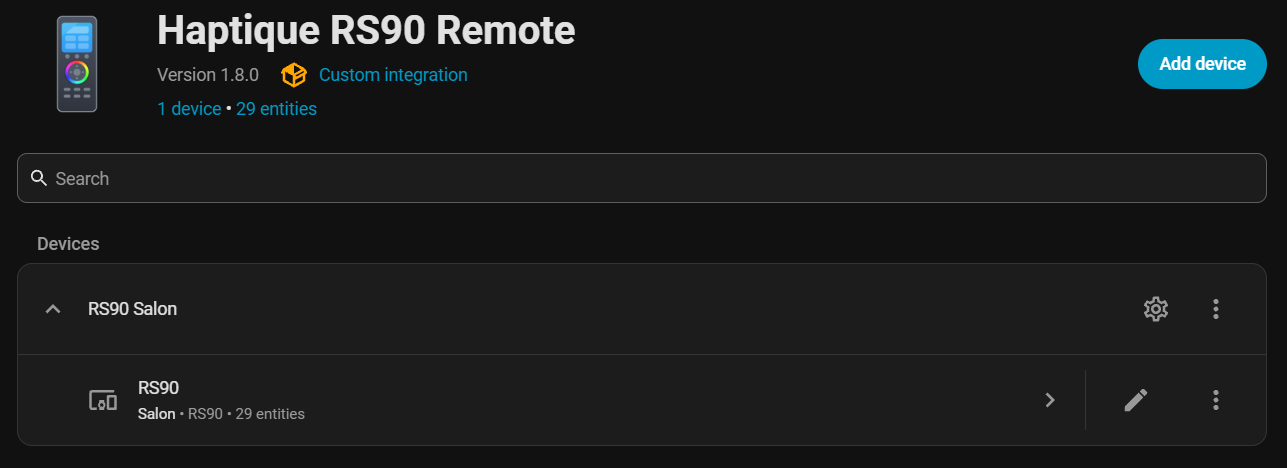
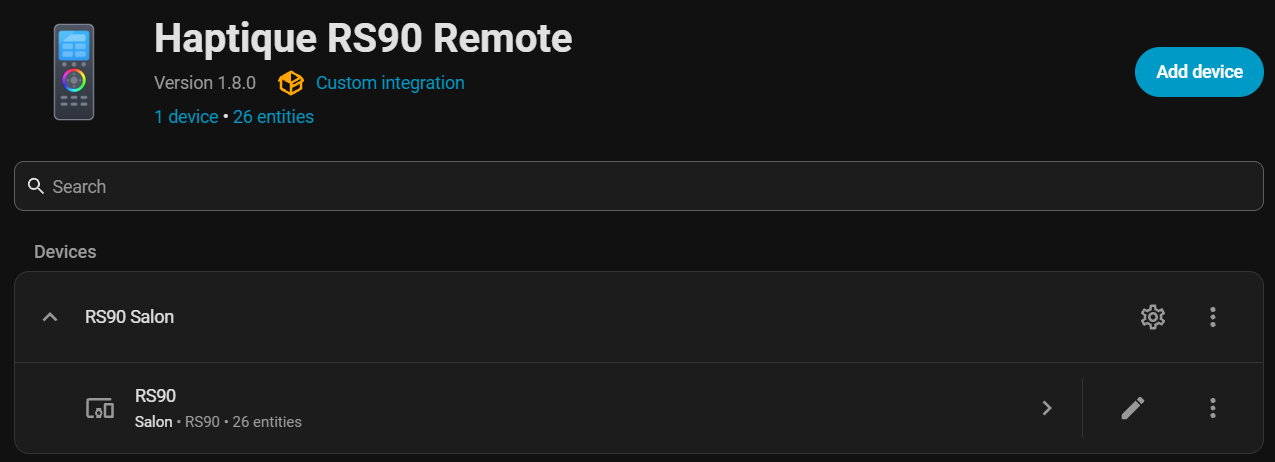
Refresh integration and device commands screenshots
Claude-Session: https://claude.ai/code/session_01RmF8zjtjch7bKiZ8vuNVQd

diff --git a/README_FR.md b/README_FR.md
@@ -13,6 +13,11 @@ Intégration Home Assistant pour la télécommande universelle **Haptique RS90**
 ## 📸 Captures d'écran
 
 <p align="center">
+<img src="documentation/screenshots/integration.png" alt="Intégration" width="70%" />
+<br/><em>L'intégration et son icône</em>
+</p>
+
+<p align="center">
 <img src="documentation/screenshots/device_info.png" alt="Page de l'appareil" width="90%" />
 <br/><em>Page de l'appareil : macros, séquences, boutons d'applications et anneau RGB</em>
 </p>
@@ -20,8 +25,6 @@ Intégration Home Assistant pour la télécommande universelle **Haptique RS90**
 <table>
 <tr>
 <td width="34%" valign="top">
-<img src="documentation/screenshots/integration.png" alt="Intégration" />
-<p align="center"><em>L'intégration et son icône</em></p>
 <img src="documentation/screenshots/macro_result.png" alt="Last Macro Result" />
 <p align="center"><em>Last Macro Result et son historique</em></p>
 </td>
@@ -31,7 +34,7 @@ Intégration Home Assistant pour la télécommande universelle **Haptique RS90**
 </td>
 <td width="33%" valign="top">
 <img src="documentation/screenshots/device_commands.png" alt="Commandes d'un appareil" />
-<p align="center"><em>Commandes d'un appareil</em></p>
+<p align="center"><em>Commandes d'un appareil, avec ses identifiants</em></p>
 </td>
 </tr>
 </table>

diff --git a/README.md b/README.md
@@ -13,6 +13,11 @@ Home Assistant integration for the **Haptique RS90** universal remote via MQTT: 
 ## 📸 Screenshots
 
 <p align="center">
+<img src="documentation/screenshots/integration.png" alt="Integration" width="70%" />
+<br/><em>The integration with its icon</em>
+</p>
+
+<p align="center">
 <img src="documentation/screenshots/device_info.png" alt="Device page" width="90%" />
 <br/><em>Device page: macros, sequences, app buttons and RGB ring light</em>
 </p>
@@ -20,8 +25,6 @@ Home Assistant integration for the **Haptique RS90** universal remote via MQTT: 
 <table>
 <tr>
 <td width="34%" valign="top">
-<img src="documentation/screenshots/integration.png" alt="Integration" />
-<p align="center"><em>Integration with its icon</em></p>
 <img src="documentation/screenshots/macro_result.png" alt="Last Macro Result" />
 <p align="center"><em>Last Macro Result with its history</em></p>
 </td>
@@ -31,7 +34,7 @@ Home Assistant integration for the **Haptique RS90** universal remote via MQTT: 
 </td>
 <td width="33%" valign="top">
 <img src="documentation/screenshots/device_commands.png" alt="Device commands" />
-<p align="center"><em>Commands of a device</em></p>
+<p align="center"><em>Commands of a device, with its IDs</em></p>
 </td>
 </tr>
 </table>
